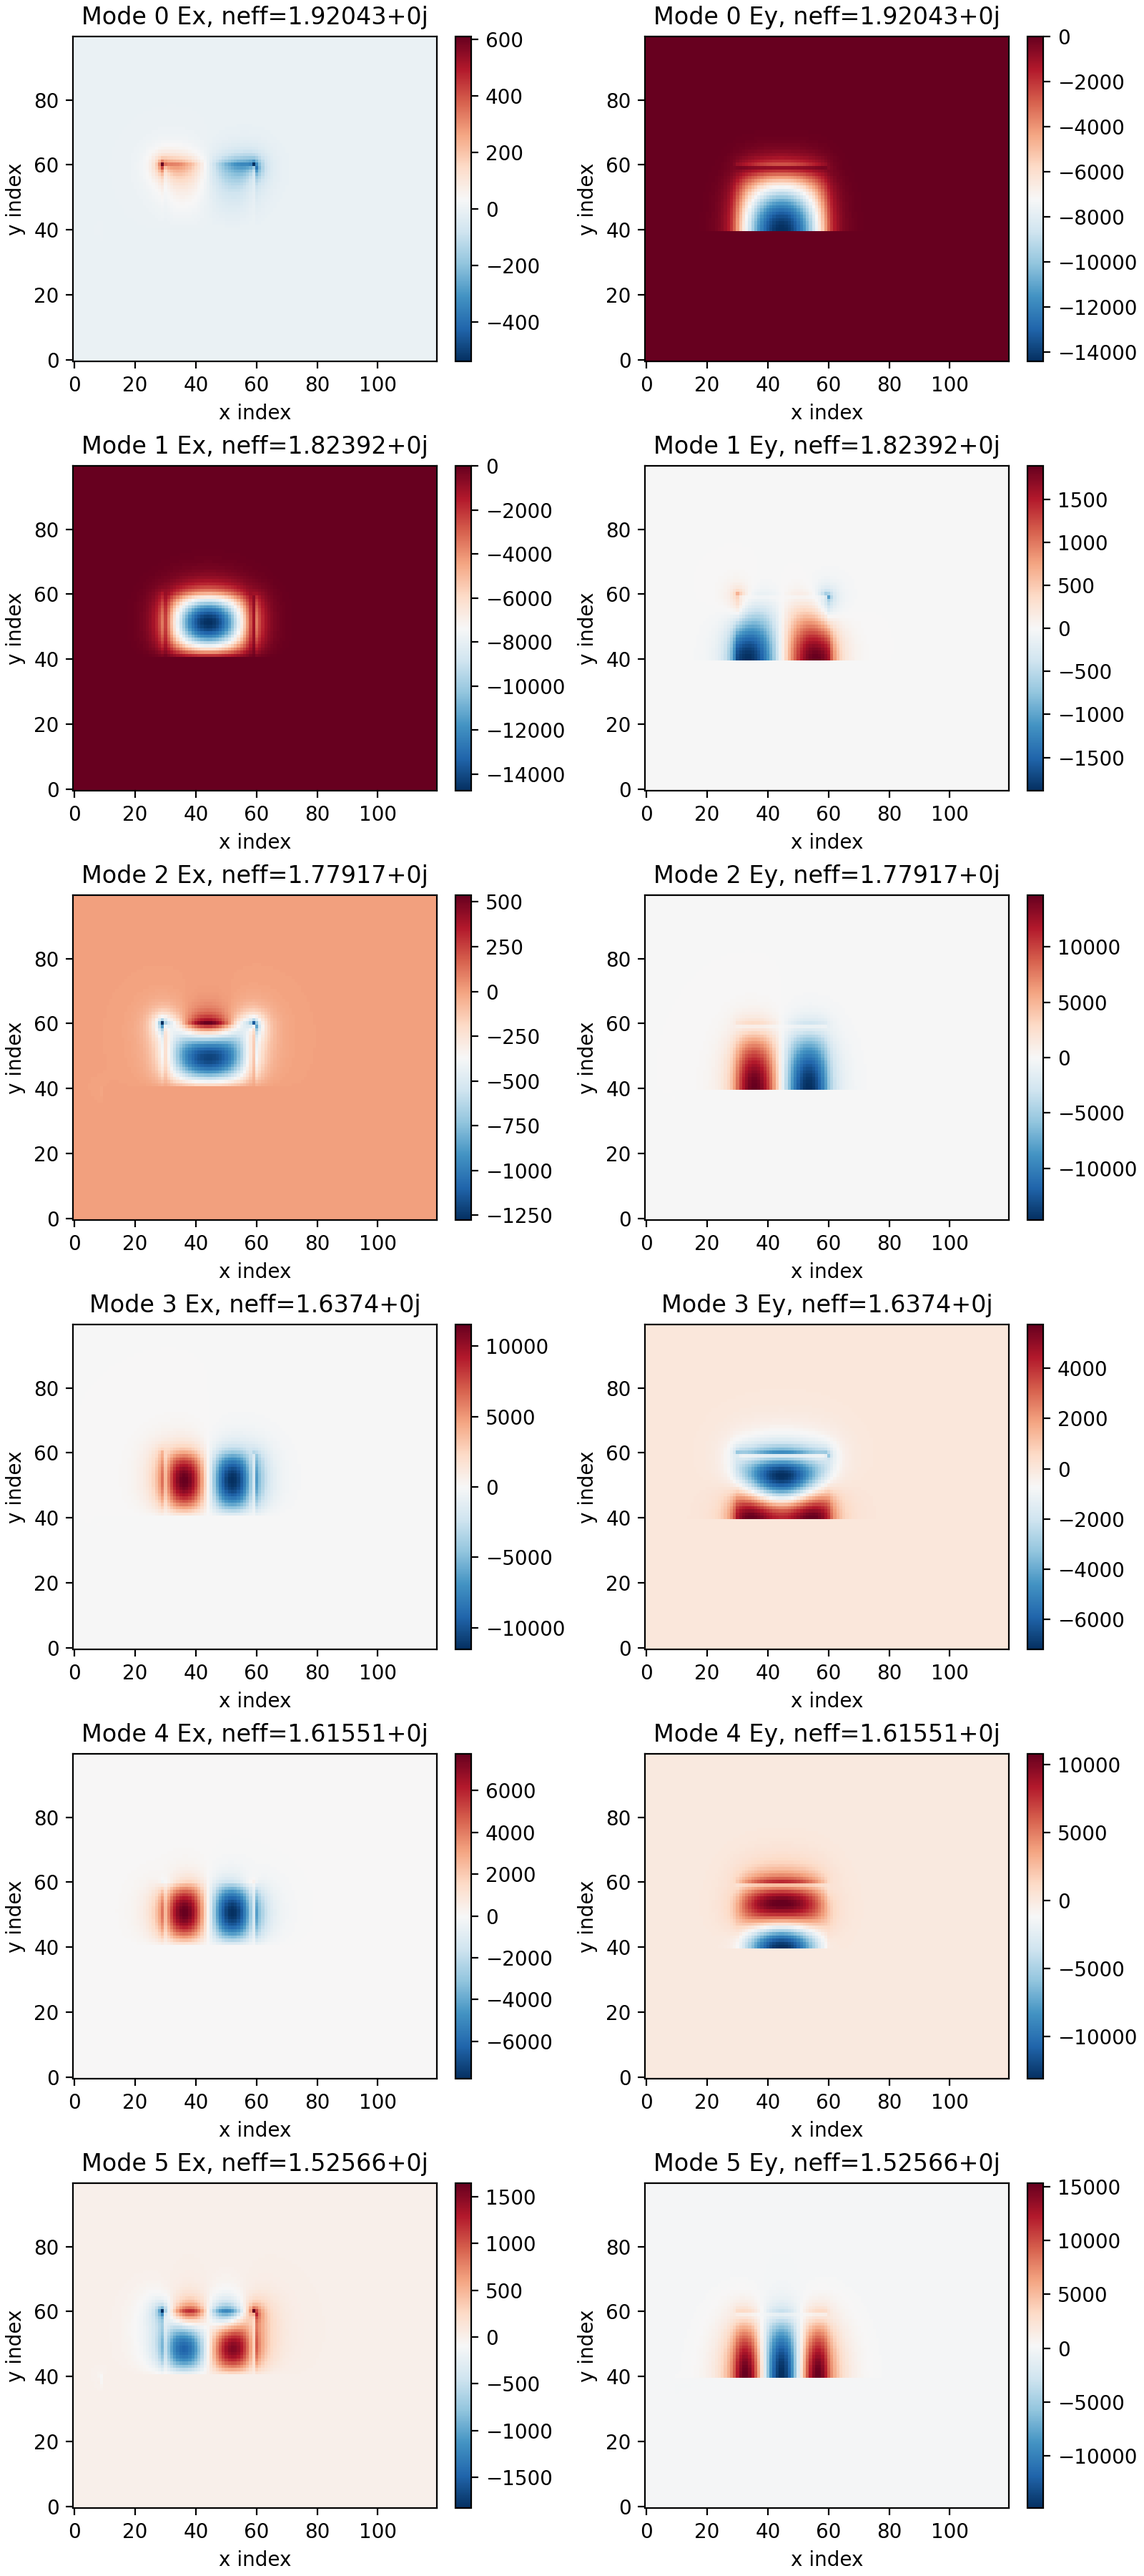
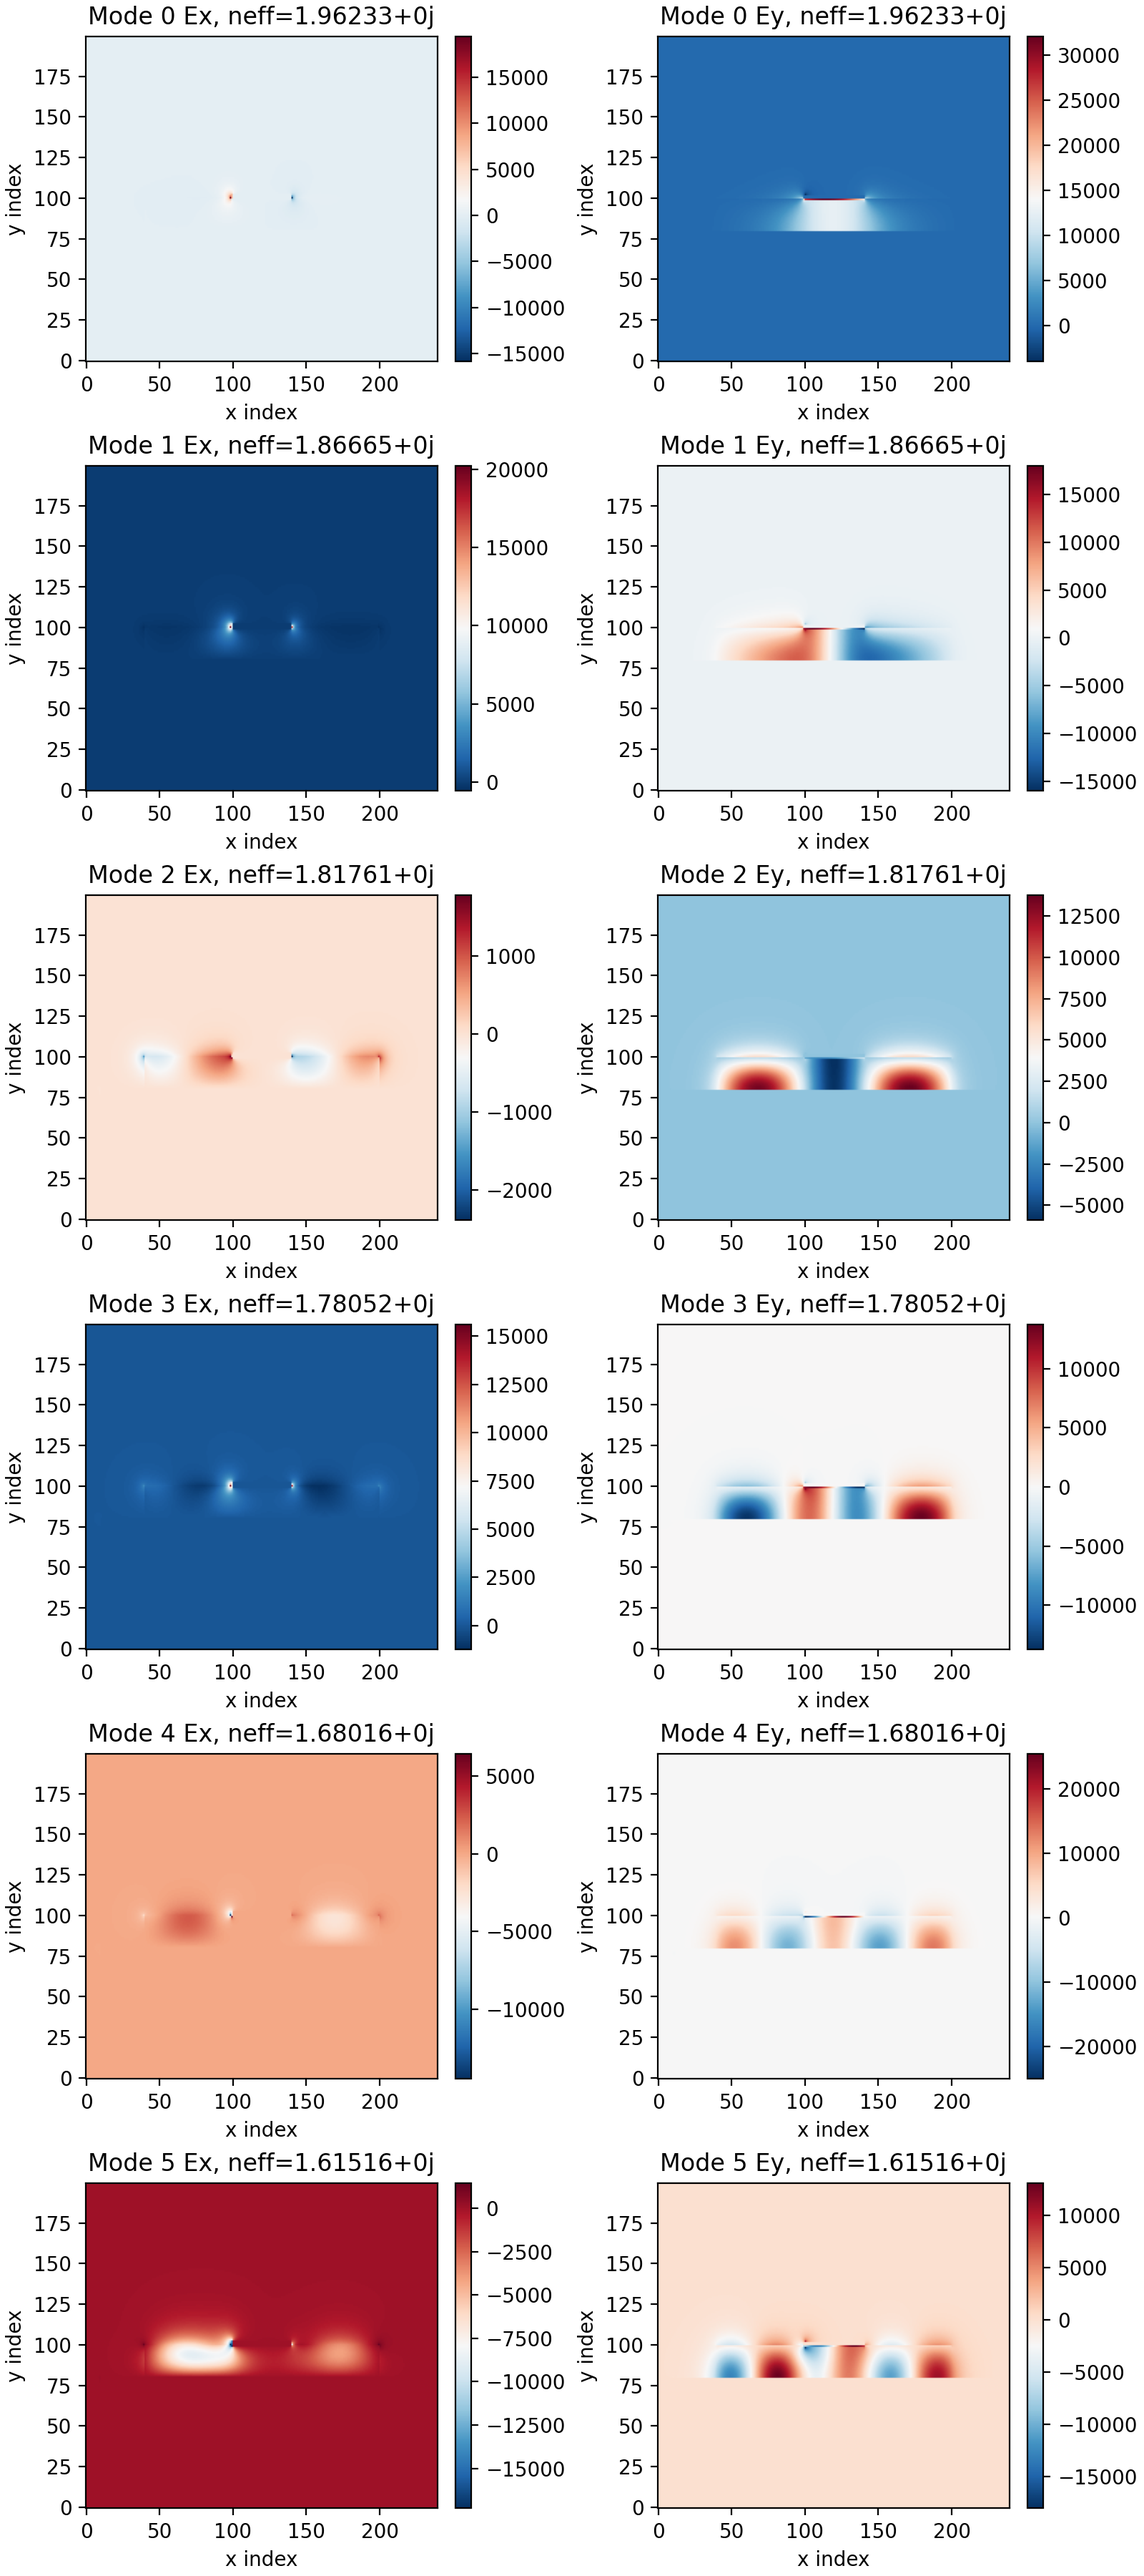
add some tests for pec implementation.

diff --git a/gprMax/fdfd_eigenmode_solver/fdfd_2d_mode_solver.py b/gprMax/fdfd_eigenmode_solver/fdfd_2d_mode_solver.py
@@ -467,11 +467,12 @@ class FDFD_2D_mode_solver:
 
 
 if __name__ == "__main__":
-    dx = 0.1e-3
-    dy = 0.1e-3
+    n = 2  # grid number multiplier
+    dx = 0.1e-3 / n
+    dy = 0.1e-3 / n
     frequency = 100e9
     mode_index = 5
-    shape = (120, 100)
+    shape = (120 * n, 100 * n)
     eps_r_xx = np.ones(shape, dtype=complex)
     eps_r_yy = np.ones(shape, dtype=complex)
     eps_r_zz = np.ones(shape, dtype=complex)
@@ -479,17 +480,17 @@ if __name__ == "__main__":
     mu_r_yy = np.ones(shape, dtype=complex)
     mu_r_zz = np.ones(shape, dtype=complex)
 
-    eps_r_xx[30:60, 40:60] = 4
-    eps_r_yy[30:60, 40:60] = 4
-    eps_r_zz[30:60, 40:60] = 4
+    eps_r_xx[20 * n:100 * n, 40 * n:50 * n] = 4
+    eps_r_yy[20 * n:100 * n, 40 * n:50 * n] = 4
+    eps_r_zz[20 * n:100 * n, 40 * n:50 * n] = 4
 
     # Standalone fallback: convert a cell-centred PEC object into distinct
     # component masks. In gprMax integration these masks should come directly
     # from component material IDs.
     cell_pec_mask = np.zeros(shape, dtype=bool)
 
-    # cell_pec_mask[40:50, 60:62] = True
-    cell_pec_mask[10:80, 38:40] = True
+    cell_pec_mask[50 * n:70 * n, 50 * n:51 * n] = True
+    cell_pec_mask[5 * n:115 * n, 39 * n:40 * n] = True
     pec_ex_mask, pec_ey_mask, pec_ez_mask = FDFD_2D_mode_solver.component_pec_masks_from_cell_mask(cell_pec_mask)
 
     solver = FDFD_2D_mode_solver(
